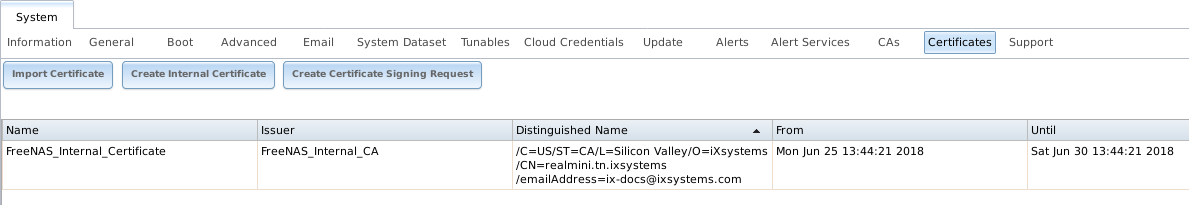
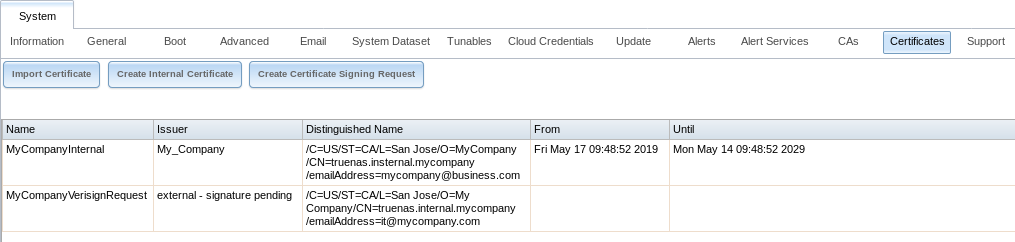
NAS-101771: Review system.rst Certificates section Replace obsolete images. Update text/field descriptions to match Freenas/TrueNAS 11.2U4 in a few spots.

diff --git a/userguide/system.rst b/userguide/system.rst
@@ -2179,7 +2179,7 @@ On %brand% :ref:`High Availability (HA) <Failover>` systems, the
 imported certificate must include the IP addresses or DNS hostnames of
 both nodes and the CARP virtual IP address. These IP addresses or DNS
 hostnames can be placed in the :guilabel:`Subject Alternative Name`
-(SAN) x509 extension field.
+(SAN) x509 extension field of the certificate being imported.
 #endif truenas
 
 
@@ -2314,7 +2314,7 @@ In the example shown in
 :numref:`Figure %s <manage_cert_fig>`,
 a self-signed certificate and a certificate signing request have been
 created for the fictional organization *My Company*. The self-signed
-certificate was issued by the internal CA named *My Company* and the
+certificate was issued by the internal CA named *My_Company* and the
 administrator has not yet sent the certificate signing request to
 Verisign so that it can be signed. Once that certificate is signed
 and returned by the external CA, it should be imported using
@@ -2343,6 +2343,9 @@ Clicking an entry activates these configuration buttons:
 * **Export Private Key** saves a copy of the private key associated
   with the certificate or certificate signing request to the system
   being used to access the %brand% system.
+
+* **Edit** shows the details for an existing certificate signing request
+  and includes an area to paste a :guilabel:`Certificate`.
 
 * **Delete** is used to delete a certificate or certificate signing
   request.
